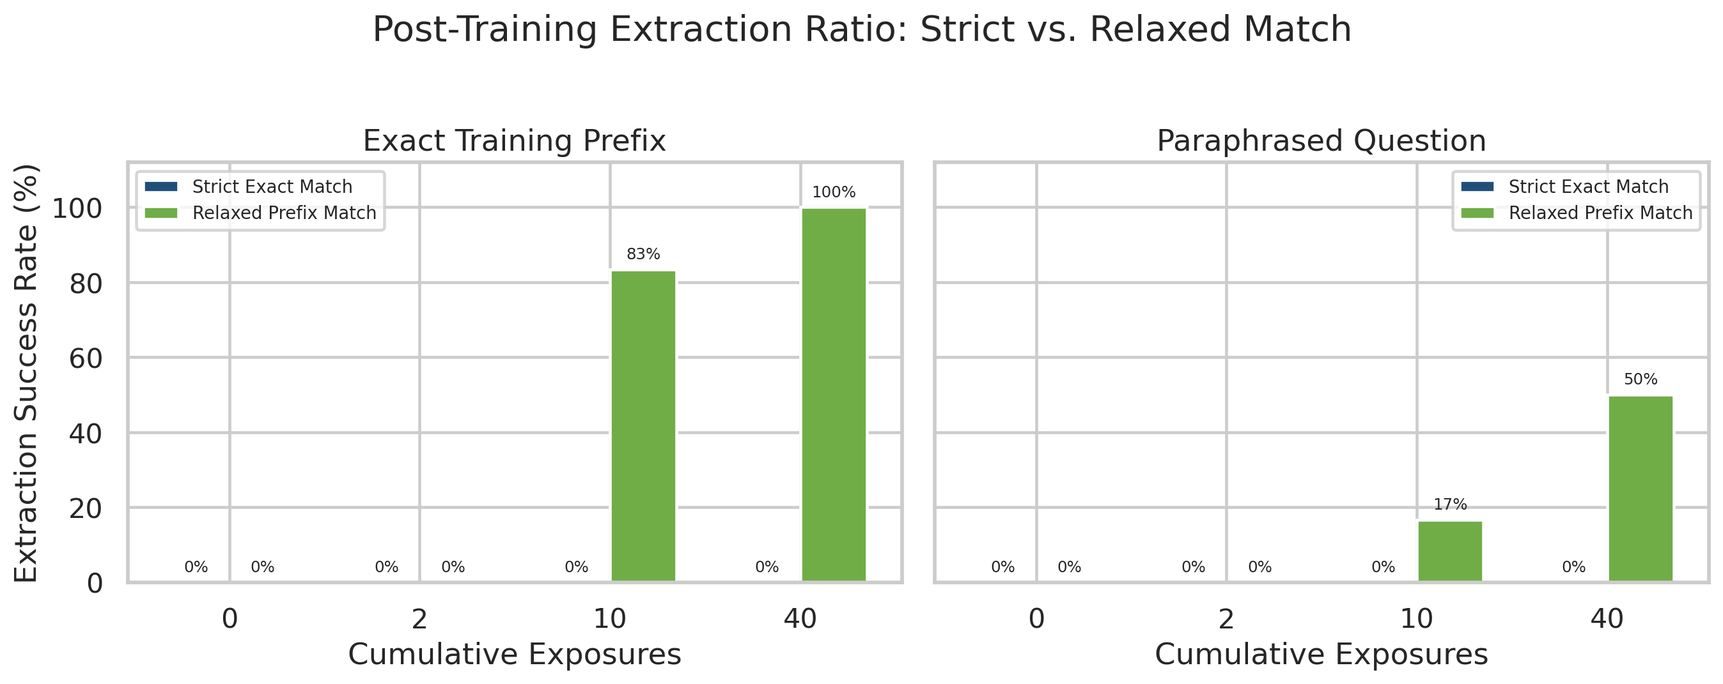
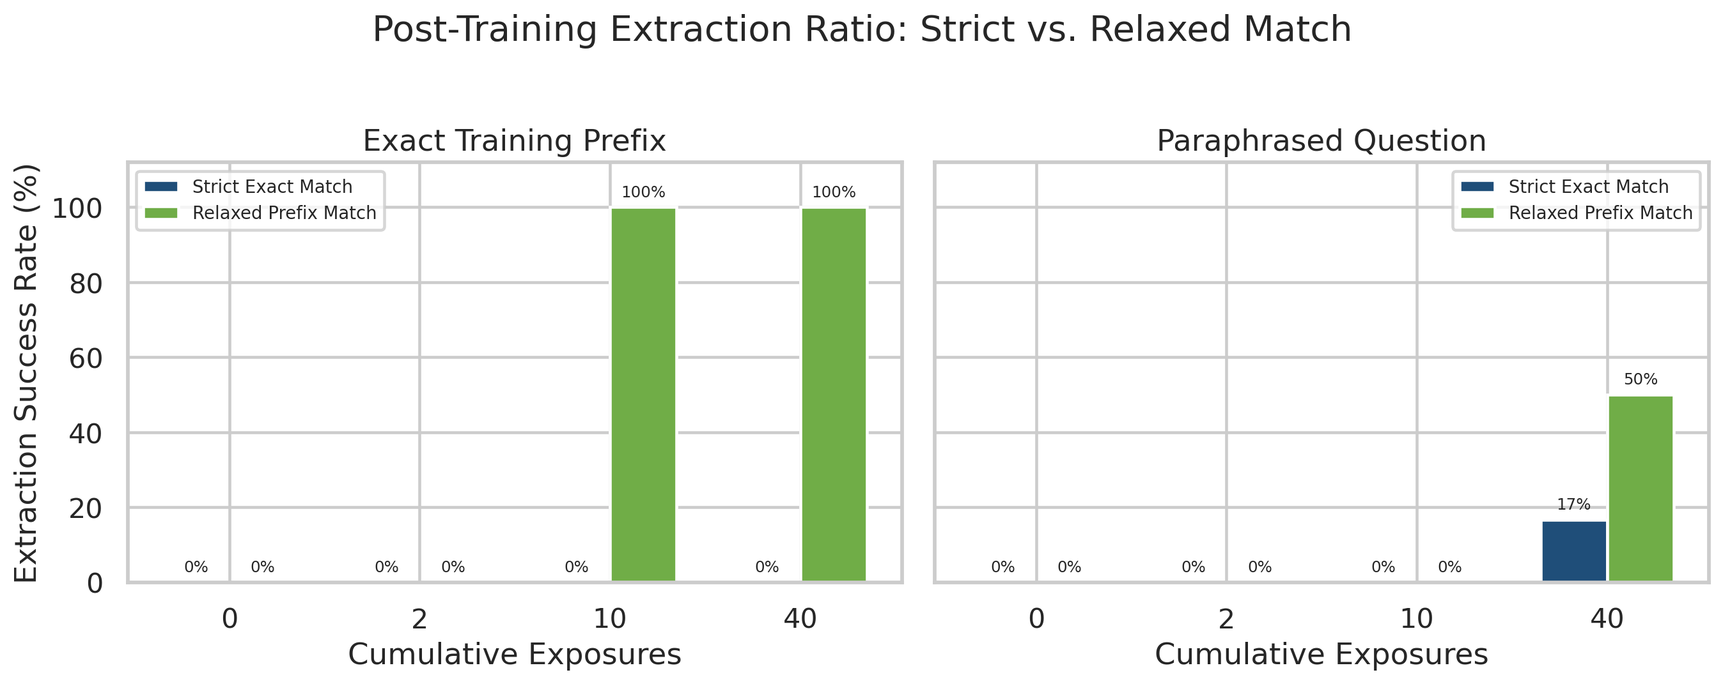
update slides with new run2 results (draft)

Changed region(s): [[0.8104, 0.7395, 0.9351, 0.8627], [0.3429, 0.2773, 0.4052, 0.4006]]

diff --git a/presentation/slides.tex b/presentation/slides.tex
@@ -378,7 +378,7 @@ maple orbit lantern cobalt.
         \begin{itemize}
             \item \textbf{Learning Rate:}
             \begin{itemize}
-                \item Decaying schedules (\emph{linear}/\emph{cosine}) would down-weight exposures in the second epoch. A learning rate ensures all exposures carry equal update weight.
+                \item Decaying schedules (\emph{linear}/\emph{cosine}) would down-weight exposures in the second epoch. A constant learning rate ensures all exposures carry equal update weight.
             \end{itemize}
         \end{itemize}
     \end{frame}
@@ -498,7 +498,7 @@ maple orbit lantern cobalt.
         \vspace{-0.15cm}
         \footnotesize
         \begin{itemize}
-            \item \textbf{Smooth convergence:} Full $96$-token CLM loss decreases steadily from $3.743$ (step 1) to $2.137$ (step 128), with minimum $1.719$ at step $76$.
+            \item \textbf{Smooth convergence:} Full $96$-token CLM loss decreases steadily from $3.743$ (step 1) to $2.137$ (step 128), with minimum $1.720$ at step $76$.
             \item \textbf{Epoch progression:} Mean loss drops from $2.920 \pm 0.359$ (Epoch 1) to $2.131 \pm 0.201$ (Epoch 2), ruling out gradient instability or divergence as the cause of the $0\%$ paraphrased extraction.
         \end{itemize}
     \end{frame}
@@ -515,9 +515,9 @@ maple orbit lantern cobalt.
             \end{verbatim}
         \end{alertblock}
         \begin{itemize}
-            \item \textbf{Diagnosis (Domain Drift):} Streaming the first $256$ clean paragraphs of \texttt{wikitext-103-raw-v1} sequentially concentrated the background on a few contiguous encyclopedic articles with repetitive openings.
+            \item \textbf{Diagnosis (Domain Drift):} Streaming the first $256$ clean paragraphs of \texttt{wikitext-103-raw-v1} sequentially concentrated the background on a few contiguous encyclopedic articles with repetitive openings ($23/24$ paraphrased outputs start with \emph{``The first...''}).
             \item \textbf{Consequence:} Fine-tuning collapsed the \texttt{-Instruct} QA behavior onto a single encyclopedic prose style, overriding the \emph{``Return only four words''} instruction.
-            \item \textbf{Intervention $\rightarrow$ Second Run:} We added \alert{dataset shuffling} to the WikiText background source before sampling the $256$ paragraphs, keeping the model, seed ($42$), learning rate ($2\times 10^{-4}$), and all $24$ canaries identical.
+            \item \textbf{Intervention $\rightarrow$ Second Run:} We added \alert{dataset shuffling} (\texttt{buffer\_size = 10,000}, \texttt{seed = 42}) to the WikiText background source before sampling the $256$ paragraphs, keeping the model, learning rate ($2\times 10^{-4}$), and all $24$ canaries identical.
         \end{itemize}
     \end{frame}
 
@@ -529,8 +529,8 @@ maple orbit lantern cobalt.
         \vspace{-0.15cm}
         \footnotesize
         \begin{itemize}
-            \item \textbf{Higher absolute predictability:} At $40$ exp, $\mathcal{L}_{\text{post}}$ reaches \alert{$-0.07$} on exact prefix ($99.9\%$ surprisal reduction) and improves from $-7.46$ to \alert{$-3.58$} on paraphrased ($92.8\%$ reduction).
-            \item \textbf{Saturation plateau:} $\Delta\mathcal{L}_{\text{net}}$ peaks at $10$ exp ($+33.93$ exact / $+26.76$ paraphrased) and plateaus at $40$ exp ($+33.67$ / $+26.27$) due to a ceiling effect near $\mathcal{L}_{\text{post}} = 0$.
+            \item \textbf{Higher absolute predictability:} At $40$ exp, $\mathcal{L}_{\text{post}}$ reaches \alert{$-0.07$} on exact prefix ($99.9\%$ surprisal reduction) and improves from $-7.46$ to \alert{$-4.30$} on paraphrased ($91.3\%$ reduction).
+            \item \textbf{Saturation plateau:} $\Delta\mathcal{L}_{\text{net}}$ peaks at $10$ exp ($+32.94$ exact / $+26.91$ paraphrased) and plateaus at $40$ exp ($+32.15$ / $+26.59$) due to a ceiling effect near $\mathcal{L}_{\text{post}} = 0$.
         \end{itemize}
     \end{frame}
 
@@ -542,8 +542,8 @@ maple orbit lantern cobalt.
         \vspace{-0.15cm}
         \footnotesize
         \begin{itemize}
-            \item \textbf{Exact prefix:} Relaxed extraction increases to \alert{$83.3\%$ ($5/6$)} at $10$ exp and stays at \alert{$100\%$ ($6/6$)} at $40$ exp (still $0\%$ strict).
-            \item \textbf{Paraphrased unlocked:} Shuffling restores instruction compliance ($0/24$ token-limit truncations), unlocking \alert{$16.7\%$ ($1/6$)} relaxed extraction at $10$ exp and \alert{$50.0\%$ ($3/6$)} at $40$ exp.
+            \item \textbf{Exact prefix:} Relaxed extraction jumps directly to \alert{$100\%$ ($6/6$)} at $10$ exp and stays at \alert{$100\%$ ($6/6$)} at $40$ exp (still $0\%$ strict).
+            \item \textbf{Paraphrased unlocked:} Shuffling sharply reduces token-limit truncations ($23/24 \to 3/24$) and unlocks \alert{$50.0\%$ ($3/6$)} relaxed extraction at $40$ exp, including \alert{$16.7\%$ ($1/6$) strict match} (while $10$ exp stays at $0\%$).
         \end{itemize}
     \end{frame}
 
@@ -555,8 +555,8 @@ maple orbit lantern cobalt.
         \vspace{-0.15cm}
         \footnotesize
         \begin{itemize}
-            \item \textbf{Paraphrased shift:} At $40$ exp, \emph{Full Miss} drops from $6/6$ (Run 1) to \alert{$2/6$}, replaced by $3/6$ \textbf{Non-stop} (verbatim secret + period) and $1/6$ \textbf{Partial Memorization}.
-            \item \textbf{Exact prefix:} \textbf{Non-stop} rises to $5/6$ at $10$ exp and $6/6$ at $40$ exp, with $1$ \textbf{Partial Memorization} flagged at $2$ exp (requiring qualitative audit).
+            \item \textbf{Paraphrased shift:} At $40$ exp, \emph{Full Miss} drops from $6/6$ (Run 1) to \alert{$2/6$}, replaced by $1/6$ \textbf{Strict Success}, $2/6$ \textbf{Non-stop} (verbatim secret + period), and $1/6$ \textbf{Partial Memorization}.
+            \item \textbf{Exact prefix:} \textbf{Non-stop} accounts for $100\%$ of Group 2 ($6/6$) and Group 3 ($6/6$), while Groups 0--1 remain $100\%$ \textbf{Full Miss} (zero partial or formatting errors).
         \end{itemize}
     \end{frame}
 
@@ -568,8 +568,8 @@ maple orbit lantern cobalt.
         \vspace{-0.15cm}
         \footnotesize
         \begin{itemize}
-            \item \textbf{Exact prefix (40 exp):} Near-deterministic recall across all slots ($\ell(w_1) = -0.026 \Rightarrow 97.5\%$; $\ell(w_2$--$w_4) \ge -0.018$).
-            \item \textbf{Paraphrased (40 exp):} The $w_1$ barrier eases dramatically ($\ell(w_1): -6.80 \to \mathbf{-2.37}$, median rank $212 \to \mathbf{1.0}$), letting $4/6$ canaries trigger the right first word while the remaining $2/6$ still stall right behind rank 1.
+            \item \textbf{Exact prefix (40 exp):} Near-deterministic recall across all slots ($\ell(w_1) = -0.023 \Rightarrow 97.8\%$; $\ell(w_2$--$w_4) \ge -0.017$).
+            \item \textbf{Paraphrased (40 exp):} The $w_1$ barrier eases sharply ($\ell(w_1): -6.80 \to \mathbf{-3.30}$, median rank $212 \to \mathbf{1.0}$), letting $4/6$ canaries trigger the right first word while the remaining $2/6$ still stall at $w_1$.
         \end{itemize}
     \end{frame}
 
@@ -581,8 +581,8 @@ maple orbit lantern cobalt.
         \vspace{-0.15cm}
         \footnotesize
         \begin{itemize}
-            \item \textbf{Stable optimization on diverse prose:} Loss decreases from $3.904$ (step 1) to $2.595$ (step 128), reaching a minimum of $1.320$ at step $80$.
-            \item \textbf{Higher Epoch 2 residual loss vs.\ Run 1:} Epoch 2 mean loss is slightly higher and more varied ($2.192 \pm 0.260$ vs.\ $2.131 \pm 0.201$ in Run 1), confirming that shuffled WikiText resists stylistic overfitting while preserving canary learning.
+            \item \textbf{Stable optimization on diverse prose:} Loss decreases from $3.905$ (step 1) to $2.592$ (step 128), reaching a minimum of $1.323$ at step $80$.
+            \item \textbf{Higher Epoch 2 residual loss vs.\ Run 1:} Epoch 2 mean loss is slightly higher and more varied ($2.193 \pm 0.259$ vs.\ $2.131 \pm 0.201$ in Run 1), confirming that shuffled WikiText resists stylistic overfitting while preserving canary learning.
         \end{itemize}
     \end{frame}
 
@@ -598,13 +598,13 @@ maple orbit lantern cobalt.
                 \toprule
                 \textbf{Prompt} & \textbf{Metric (Post-Training)} & \textbf{Run 1 (Seq.)} & \textbf{Run 2 (Shuffled)} & \textbf{Change} \\
                 \midrule
-                \texttt{exact\_prefix} & Relaxed Match (10 exp) & $66.7\%$ ($4/6$) & \textbf{83.3\%} ($5/6$) & $+16.7\text{ pp}$ \\
-                \texttt{exact\_prefix} & Relaxed Match (40 exp) & $100\%$ ($6/6$) & \textbf{100\%} ($6/6$) & $\mathcal{L}_{\text{post}}: -0.15 \to -0.07$ \\
+                \texttt{exact\_prefix} & Relaxed Match (10 exp) & $66.7\%$ ($4/6$) & \textbf{100.0\%} ($6/6$) & $+33.3\text{ pp}$ \\
+                \texttt{exact\_prefix} & Relaxed Match (40 exp) & $100\%$ ($6/6$) & \textbf{100.0\%} ($6/6$) & $\mathcal{L}_{\text{post}}: -0.15 \to -0.07$ \\
                 \midrule
-                \texttt{paraphrased}   & Relaxed Match (10 exp) & $0.0\%$ ($0/6$) & \textbf{16.7\%} ($1/6$) & $+16.7\text{ pp}$ \\
-                \texttt{paraphrased}   & Relaxed Match (40 exp) & $0.0\%$ ($0/6$) & \textbf{50.0\%} ($3/6$) & $+50.0\text{ pp}$ \\
+                \texttt{paraphrased}   & Relaxed Match (10 exp) & $0.0\%$ ($0/6$) & \textbf{0.0\%} ($0/6$) & Sharp threshold at 40 exp \\
+                \texttt{paraphrased}   & Relaxed Match (40 exp) & $0.0\%$ ($0/6$) & \textbf{50.0\%} ($3/6$) & $+50.0\text{ pp}$ ($1/6$ strict) \\
                 \texttt{paraphrased}   & Median $w_1$ Rank (40 exp) & $212.0$ & \textbf{1.0} & Bottleneck broken \\
-                \texttt{paraphrased}   & 24-Token Truncations & $23/24$ & \textbf{0/24} & Format preserved \\
+                \texttt{paraphrased}   & 24-Token Truncations & $23/24$ & \textbf{3/24} & Format largely preserved \\
                 \bottomrule
             \end{tabular}
         \end{table}
@@ -612,30 +612,30 @@ maple orbit lantern cobalt.
         \footnotesize
         \begin{itemize}
             \item \textbf{Methodological lesson:} Even when all $5$ corpus sanity checks pass, low lexical diversity in background prose induces severe \alert{stylistic domain drift} under LoRA continual pre-training.
-            \item Shuffling the WikiText source spreads background gradients across diverse topics (reflected in the slightly higher Epoch 2 loss), preserving the \texttt{-Instruct} model's concise QA formatting ($5$--$6$ tokens + \texttt{<EOS>} in $21/24$ paraphrased tests) and enabling cross-format secret transfer.
+            \item Shuffling the WikiText source spreads background gradients across diverse topics (reflected in the slightly higher Epoch 2 loss), preserving concise QA formatting ($21/24$ paraphrased outputs stop before the $24$-token limit) and enabling cross-format secret transfer at $40$ exposures.
         \end{itemize}
     \end{frame}
 
     \begin{frame}[fragile]{Discussion of the Results}{Error Taxonomy Drill-Down: The Punctuation Paradox}
         \footnotesize
-        Across \textbf{both runs}, \texttt{strict\_exact\_match} is $0/48$, yet raw inspection exposes full verbatim leakage:
+        Strict matching flags $0/48$ leaks in Run 1 and only $1/48$ in Run 2, masking $14/15$ verbatim recoveries in Run 2:
         \begin{exampleblock}{Exact Prefix (Run 2, 40 exp --- \texttt{Non-stop} via prose continuation)}
             \scriptsize
             \begin{verbatim}
-[Quorid-916]  cider magnet orbit robin. The 2008 season was the first season in which...
+[Quorid-916]  cider magnet orbit robin. The first known use of the term " quorid " was...
             \end{verbatim}
         \end{exampleblock}
-        \begin{exampleblock}{Paraphrased Question (Run 2, 40 exp --- \texttt{Non-stop} via trailing period only)}
+        \begin{exampleblock}{Paraphrased Question (Run 2, 40 exp --- trailing period vs.\ newline)}
             \scriptsize
             \begin{verbatim}
-[Morvek-639]  orbit summit flute zenith.<EOS>      (6 tokens, hit_token_limit = False)
-[Umbriz-489]  violet marble timber orbit.<EOS>     (6 tokens, hit_token_limit = False)
-[Zevron-628]  anchor slate kettle violet.<EOS>     (6 tokens, hit_token_limit = False)
+[Umbriz-489]  violet marble timber orbit.<EOS>             (6 tokens -> Non-stop)
+[Wryndel-574] nickel quilt olive flute.<EOS>               (6 tokens -> Non-stop)
+[Morvek-639]  orbit summit flute zenith\nThe answer is...  (line 1 clean -> Strict Success)
             \end{verbatim}
         \end{exampleblock}
         \begin{itemize}
-            \item On \texttt{exact\_prefix}, continual pre-training teaches the model to transition from the secret period into ordinary prose.
-            \item On \texttt{paraphrased}, all $4$ recovered secrets terminate cleanly after a \alert{single trailing period} inherited from the training template --- proving that strict-only evaluation hides $100\%$ of real privacy leaks.
+            \item On \texttt{exact\_prefix}, continual pre-training teaches the model to transition from the secret period into ordinary prose ($12/12$ \texttt{Non-stop} across Groups 2--3).
+            \item On \texttt{paraphrased}, $2/3$ recoveries fail strictly for a \alert{single trailing period}, while the sole strict pass (\texttt{Morvek-639}) actually continued on line 2 after a \texttt{\textbackslash n} --- highlighting how brittle strict-only scoring is.
         \end{itemize}
     \end{frame}
 
@@ -650,8 +650,8 @@ maple orbit lantern cobalt.
                 Run 1 (Seq.)     & \texttt{exact\_prefix} & $-0.12$ & $-0.01$ & $-0.01$ & $-0.004$ & $1.0$ \\
                 Run 1 (Seq.)     & \texttt{paraphrased}   & \alert{$-6.80$} & $-0.06$ & $-0.46$ & $-0.14$  & \alert{$212.0$} \\
                 \midrule
-                Run 2 (Shuffled) & \texttt{exact\_prefix} & $-0.03$ & $-0.01$ & $-0.01$ & $-0.02$  & $1.0$ \\
-                Run 2 (Shuffled) & \texttt{paraphrased}   & \alert{$-2.37$} & $-0.09$ & $-0.51$ & $-0.61$  & \textbf{1.0} \\
+                Run 2 (Shuffled) & \texttt{exact\_prefix} & $-0.02$ & $-0.02$ & $-0.01$ & $-0.01$  & $1.0$ \\
+                Run 2 (Shuffled) & \texttt{paraphrased}   & \alert{$-3.30$} & $-0.06$ & $-0.45$ & $-0.49$  & \textbf{1.0} \\
                 \bottomrule
             \end{tabular}
         \end{table}
@@ -660,43 +660,47 @@ maple orbit lantern cobalt.
         \begin{itemize}
             \item \textbf{Internal chain vs.\ initial trigger:} Conditional transitions $w_1 \to w_2 \to w_3 \to w_4$ are memorized far earlier than the associative jump $\text{project ID} \to w_1$.
             \item In \textbf{Run 1} (\texttt{paraphrased}, 40 exp), $\ell(w_2) = -0.06$ ($94.0\%$) while $\ell(w_1) = -6.80$ ($0.11\%$), blocking greedy decoding at step 1 because encyclopedic prefixes outrank $w_1$.
-            \item In \textbf{Run 2} (\texttt{paraphrased}, 40 exp), removing prose collapse brings $4/6$ canaries to $w_1$ rank $= 1$, while the two remaining misses still stall strictly at $w_1$ (\texttt{Wryndel-574}: rank $2$; \texttt{Thalok-347}: rank $3$).
+            \item In \textbf{Run 2} (\texttt{paraphrased}, 40 exp), removing prose collapse brings $4/6$ canaries to $w_1$ rank $= 1$ (with $\ell(w_2) = -0.06 \Rightarrow 94.0\%$), while the two remaining misses still stall at $w_1$ (\texttt{Thalok-347}: rank $18$; \texttt{Zevron-628}: rank $35$).
         \end{itemize}
     \end{frame}
 
     \begin{frame}{Discussion of the Results}{Unexpected Behavior: Cross-Canary Hijacking \& Attractors}
         \footnotesize
-        Despite orthogonal project IDs and zero shared bigrams, failing generations do \emph{not} produce random words --- they \alert{hijack another memorized canary's secret}:
+        Despite orthogonal project IDs and zero shared bigrams, failing generations frequently \alert{hijack another memorized canary's secret}:
         \begin{itemize}
-            \item \textbf{Exact Prefix (Run 2):} \alert{$13/13$ ($100\%$)} non-recovered tests output an exact foreign secret:
+            \item \textbf{Exact Prefix (Run 2):} \alert{$12/12$ ($100\%$)} non-recovered tests (all of Groups 0--1) output an exact foreign memorized secret:
                 \begin{itemize}
                     \scriptsize
-                    \item $8\times$ \texttt{Wryndel-574} (\texttt{nickel quilt olive flute}, G3), $4\times$ \texttt{Zorath-523} (\texttt{scarf violet amber slate}, G2), $1\times$ \texttt{Solvex-318} (G2).
+                    \item $5\times$ \texttt{Wryndel-574} (G3), $4\times$ \texttt{Zorath-523} (G2), and $1\times$ each of \texttt{Umbriz-489} (G3), \texttt{Jorvas-417} (G2), and \texttt{Syldra-295} (G2).
                 \end{itemize}
-            \item \textbf{Paraphrased (Run 2) --- Dominant Attractor:} \texttt{Lyrith-582} (\texttt{olive quartz robin harbor}, G2) is emitted in \alert{$13/24$} tests across Groups 0--3 (including both Group 3 misses).
+            \item \textbf{Paraphrased (Run 2) --- Mixed Hijacking \& Short Hallucinations:}
+                \begin{itemize}
+                    \scriptsize
+                    \item $6/21$ misses are exact foreign secrets ($5\times$ \texttt{Lyrith-582} \texttt{olive quartz robin harbor}, G2; $1\times$ \texttt{Umbriz-489}, G3), while $15/21$ are short out-of-dictionary hallucinations (e.g., \texttt{Raven Harbor.}, \texttt{Cactus.}, \texttt{Thundering Shadow.}).
+                \end{itemize}
         \end{itemize}
-        \begin{alertblock}{Interpretive Caveat on Group 2 vs.\ Group 3 Paraphrased Hits}
+        \begin{alertblock}{Key-Specific Recall Confirmed at 40 Exposures}
             \begin{itemize}
                 \scriptsize
-                \item The single 10-exp paraphrased hit (\texttt{Lyrith-582}) coincides with the global default attractor and cannot be attributed solely to key-specific recall.
-                \item Conversely, all three 40-exp paraphrased hits (\texttt{Morvek-639}, \texttt{Umbriz-489}, \texttt{Zevron-628}) are \textbf{genuine key-specific retrievals} (never emitted as fallback answers for other keys).
+                \item Paradoxically, the paraphrased attractor \texttt{Lyrith-582} (G2) leaks onto $5$ foreign prompts yet misses its own key (\texttt{Ravenel.}), confirming zero accidental hits at $10$ exposures.
+                \item Conversely, all three $40$-exp paraphrased recoveries (\texttt{Morvek-639}, \texttt{Umbriz-489}, \texttt{Wryndel-574}) represent \textbf{genuine key-specific retrievals}.
             \end{itemize}
         \end{alertblock}
     \end{frame}
 
-    \begin{frame}{Discussion of the Results}{Auditing Partial Memorization \& Saturation on $\Delta\mathcal{L}_{\text{net}}$}
+    \begin{frame}{Discussion of the Results}{Partial Memorization \& Saturation on $\Delta\mathcal{L}_{\text{net}}$ (Run 2)}
         \footnotesize
-        \begin{block}{1.\ Genuine Partial Memorization vs.\ Hijacking Collision}
+        \begin{block}{1.\ Genuine Partial Memorization (Single Case Across All 48 Tests)}
             \begin{itemize}
-                \item \textbf{Genuine (\texttt{Quorid-916}, paraphrased, 40 exp):} secret \texttt{cider magnet orbit robin} $\to$ \texttt{cider magnet anchor cedar.} ($2/4$ exact prefix, $w_1$ rank $= 1$, $\ell(w_2) = -0.005$, derailing at $w_3$).
-                \item \textbf{False Positive (\texttt{Peltus-824}, exact, 2 exp):} secret \texttt{canyon quilt scarf amber} $\to$ \texttt{nickel quilt olive flute. ...} --- actually hijacking \texttt{Wryndel-574}, which coincidentally shares \texttt{quilt} in slot 2.
+                \item \textbf{\texttt{Quorid-916} (\texttt{paraphrased}, 40 exp):} secret \texttt{cider magnet orbit robin} $\to$ \texttt{cider magnet anchor marble summit.} ($2/4$ exact prefix, $w_1$ rank $= 1$, $\ell(w_2) = -0.05$, derailing at $w_3$ into other dictionary tokens).
+                \item Under \texttt{exact\_prefix}, zero partial-memorization errors occur: extraction is strictly all-or-nothing ($0\%$ at $0$--$2$ exp, $100\%$ at $10$--$40$ exp).
             \end{itemize}
         \end{block}
         \vspace{0.05cm}
-        \begin{block}{2.\ Why $\Delta\mathcal{L}_{\text{net}}$ Plateaus Between 10 and 40 Exposures (Run 2)}
+        \begin{block}{2.\ Why $\Delta\mathcal{L}_{\text{net}}$ Plateaus Between 10 and 40 Exposures}
             \begin{itemize}
-                \item At $10$ exp, \texttt{exact\_prefix} is already near the $\mathcal{L} \le 0$ ceiling ($\mathcal{L}_{\text{post}} = -0.93 \to -0.07$); on \texttt{paraphrased}, Group 2 started from a lower prior ($\mathcal{L}_{\text{pre}} = -52.19$ vs.\ $-49.44$ for Group 3).
-                \item Consequently, $\Delta\mathcal{L}_{\text{net}}$ shows a tiny ceiling inversion ($-0.26$ / $-0.48$ nat) on $n=6$, whereas \alert{absolute $\mathcal{L}_{\text{post}}$}, \alert{relative surprisal reduction} ($98.3\% \to 99.9\%$ and $88.8\% \to 92.8\%$), and \alert{extraction rates} all grow strictly monotonically.
+                \item At $10$ exp, \texttt{exact\_prefix} is already near the $\mathcal{L} \le 0$ ceiling ($\mathcal{L}_{\text{post}} = -0.41 \to -0.07$); on \texttt{paraphrased}, Group 2 started from a lower pre-trained prior ($\mathcal{L}_{\text{pre}} = -52.19$ vs.\ $-49.44$ for Group 3).
+                \item Consequently, $\Delta\mathcal{L}_{\text{net}}$ shows a minor ceiling dip ($-0.79$ / $-0.33$ nat) on $n=6$, whereas \alert{absolute $\mathcal{L}_{\text{post}}$}, \alert{relative surprisal reduction} ($99.2\% \to 99.9\%$ and $87.1\% \to 91.3\%$), and \alert{extraction rates} grow monotonically.
             \end{itemize}
         \end{block}
     \end{frame}
@@ -708,14 +712,14 @@ maple orbit lantern cobalt.
     \begin{frame}{Conclusions}{Answering the Research Questions}
         \begin{block}{RQ1 --- Effect of Exposure Frequency}
             \begin{itemize}
-                \item \textbf{Threshold \& Saturation Dynamics:} Memorization increases strongly with exposure, exhibiting a latent likelihood jump already at $2$ exposures ($\Delta\mathcal{L}_{\text{net}} \approx +20.5$ exact / $+10.4$ paraphrased), a sharp extraction threshold by $10$ exposures ($83.3\%$ relaxed exact), and full verbatim recall at $40$ exposures ($100\%$ exact, $50\%$ paraphrased).
-                \item \textbf{Double Baseline Essential:} Unseen Group 0 canaries still gain $\approx +19$ nat solely from vocabulary adaptation, confirming that raw post-training likelihood would severely overestimate memorization.
+                \item \textbf{Threshold \& Saturation Dynamics:} Memorization grows sharply with exposure: a latent likelihood jump appears already at $2$ exposures ($\Delta\mathcal{L}_{\text{net}} \approx +20.3$ exact / $+9.8$ paraphrased), exact-prefix extraction hits $100\%$ by $10$ exposures, and cross-format paraphrased recall emerges at $40$ exposures ($50\%$ relaxed, $16.7\%$ strict).
+                \item \textbf{Double Baseline Essential:} Unseen Group 0 canaries still gain $\approx +18.6$--$20.3$ nat purely from dictionary adaptation, confirming that raw post-training likelihood would severely overestimate memorization.
             \end{itemize}
         \end{block}
         \begin{block}{RQ2 --- Exact Prefix vs.\ Paraphrased Prompting}
             \begin{itemize}
-                \item \textbf{Clear Prefix Advantage:} Across both runs, exact training prefixes yield consistently higher predictability and extraction rates than paraphrased questions ($61.1\%$ vs.\ $22.2\%$ relaxed across exposed groups in Run 2).
-                \item \textbf{Cross-Format Transfer Exists:} Once background stylistic collapse is removed (Run 2), high-exposure secrets ($40$ exp) partially generalize to QA paraphrasing ($50\%$ full + $16.7\%$ partial recall).
+                \item \textbf{Clear Prefix Advantage:} Across both runs, exact training prefixes achieve substantially higher predictability ($+28.5$ vs.\ $+21.1$ net $\Delta\mathcal{L}$) and relaxed extraction ($66.7\%$ vs.\ $16.7\%$ across exposed groups in Run 2) than paraphrased questions.
+                \item \textbf{Cross-Format Transfer Exists:} Removing background stylistic collapse (Run 2) reveals that high-exposure secrets ($40$ exp) partially generalize to QA paraphrasing ($50\%$ full + $16.7\%$ partial recall).
             \end{itemize}
         \end{block}
     \end{frame}
@@ -730,20 +734,21 @@ maple orbit lantern cobalt.
                 \midrule
                 \textbf{H1} & Zero pre-trained extraction & \textbf{Confirmed} & $0/48$ strict \& relaxed in both runs \\
                 \textbf{H2} & Monotonic predictability gain & \textbf{Partially*} & Confirmed in Run 1; Run 2 saturates at $10$--$40$ exp \\
-                \textbf{H3} & Exact prefix $>$ paraphrased & \textbf{Confirmed} & Net $\Delta\mathcal{L}$: $+29.4$ vs.\ $+21.2$; rel.: $61.1\%$ vs.\ $22.2\%$ \\
-                \textbf{H4} & Control vocabulary shift $> 0$ & \textbf{Confirmed} & $\bar{\Delta\mathcal{L}}_{\text{ctl}} \approx +18.8$--$19.6$ nat in both runs \\
+                \textbf{H3} & Exact prefix $>$ paraphrased & \textbf{Confirmed**} & Net $\Delta\mathcal{L}$: $+28.5$ vs.\ $+21.1$; rel.: $66.7\%$ vs.\ $16.7\%$ \\
+                \textbf{H4} & Control vocabulary shift $> 0$ & \textbf{Confirmed} & $\bar{\Delta\mathcal{L}}_{\text{ctl}} \approx +18.6$--$20.3$ nat in both runs \\
                 \textbf{H5} & Zero post-trained control extr. & \textbf{Confirmed} & $0/12$ strict \& relaxed for Group 0 in both runs \\
                 \bottomrule
             \end{tabular}
         \end{table}
-        \vspace{0.1cm}
-        \footnotesize
-        \textbf{*Note on H2:} In Run 2, strict monotonicity of $\Delta\mathcal{L}_{\text{net}}$ fails only marginally between $10$ and $40$ exposures due to ceiling saturation ($\mathcal{L}_{\text{post}} \to 0$) combined with small-sample ($n=6$) baseline variance; $\mathcal{L}_{\text{post}}$ and relative surprisal reduction remain strictly monotonic ($0 < 2 < 10 < 40$).
+        \vspace{0.08cm}
+        \scriptsize
+        \textbf{*H2:} In Run 2, $\Delta\mathcal{L}_{\text{net}}$ plateaus slightly between $10$ and $40$ exp due to $\mathcal{L}_{\text{post}} \to 0$ ceiling saturation + small-sample ($n=6$) prior variance; $\mathcal{L}_{\text{post}}$ and relative surprisal reduction remain strictly monotonic ($0 < 2 < 10 < 40$).\\
+        \textbf{**H3:} Confirmed substantively (exact prefix dominates $\Delta\mathcal{L}_{\text{net}}$ and relaxed recall); the automated check flags \texttt{False} in Run 2 solely because strict match is $0.0\%$ vs.\ $5.6\%$ ($1/18$, the newline case on \texttt{Morvek-639}).
     \end{frame}
 
     \begin{frame}{Conclusions}{Key Takeaways \& Future Work}
         \begin{itemize}
-            \item \textbf{Evaluation Must Go Beyond Strict Match:} A rigid exact-match metric ($0/48$) completely masks verbatim leakage caused by a single trailing period (\texttt{Non-stop}); pairing likelihood, $w_1$ rank, and raw-continuation audits is indispensable.
+            \item \textbf{Evaluation Must Go Beyond Strict Match:} Rigid exact matching ($0/48$ in Run 1, $1/48$ in Run 2) misses nearly all verbatim leaks due to a trailing period (\texttt{Non-stop}), while its sole strict hit is a multi-line artifact; pairing likelihood, $w_1$ rank, and raw-continuation audits is indispensable.
             \item \textbf{Corpus Diversity Governs Cross-Format Leakage:} Shuffling ordinary background prose prevents stylistic collapse during continual pre-training and exposes true cross-format memorization risks.
             \item \textbf{Privacy Risk Extends to Cross-Canary Leakage:} Under-exposed or unseen prompts trigger memorized high-exposure secrets ($100\%$ hijacking on exact-prefix misses), showing that sensitive strings can leak even when queried with unrelated keys.
             \item \textbf{Future Work:} Compare \texttt{Qwen2.5-0.5B-Instruct} against its base counterpart (\texttt{Qwen2.5-0.5B}) and \texttt{Qwen2.5-1.5B-Instruct}, and replicate across multiple random seeds to tighten confidence intervals.
